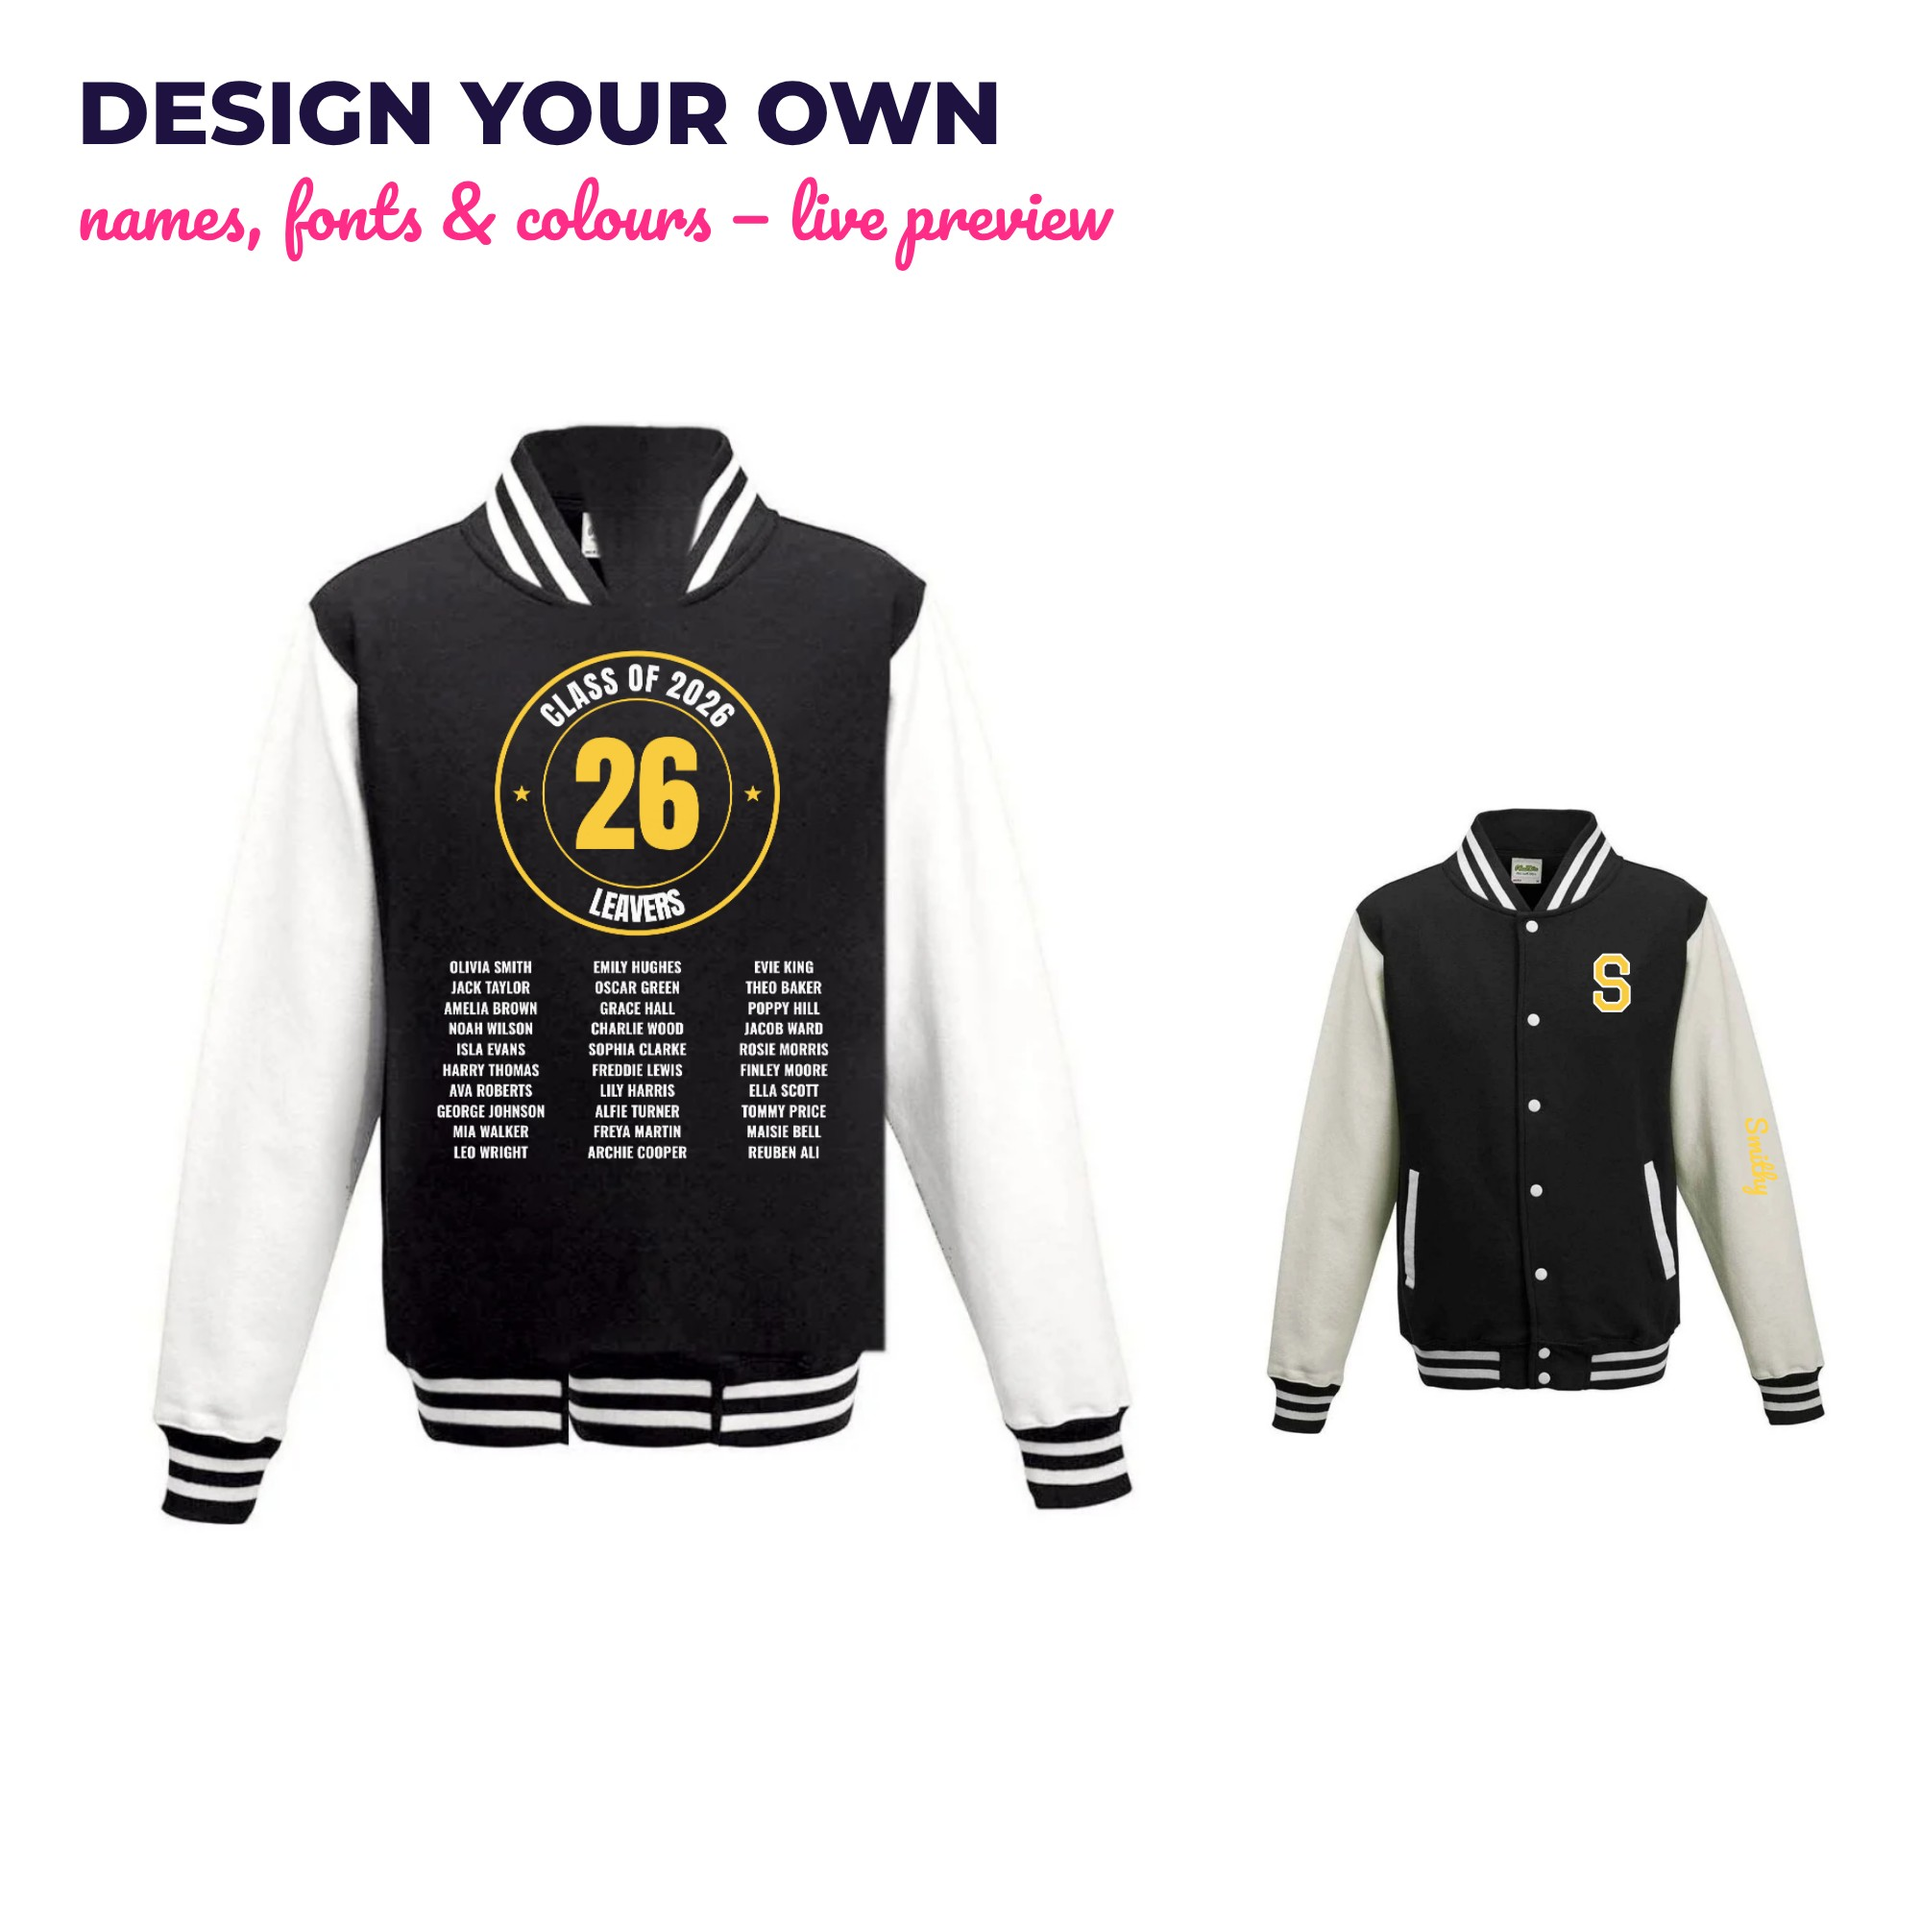
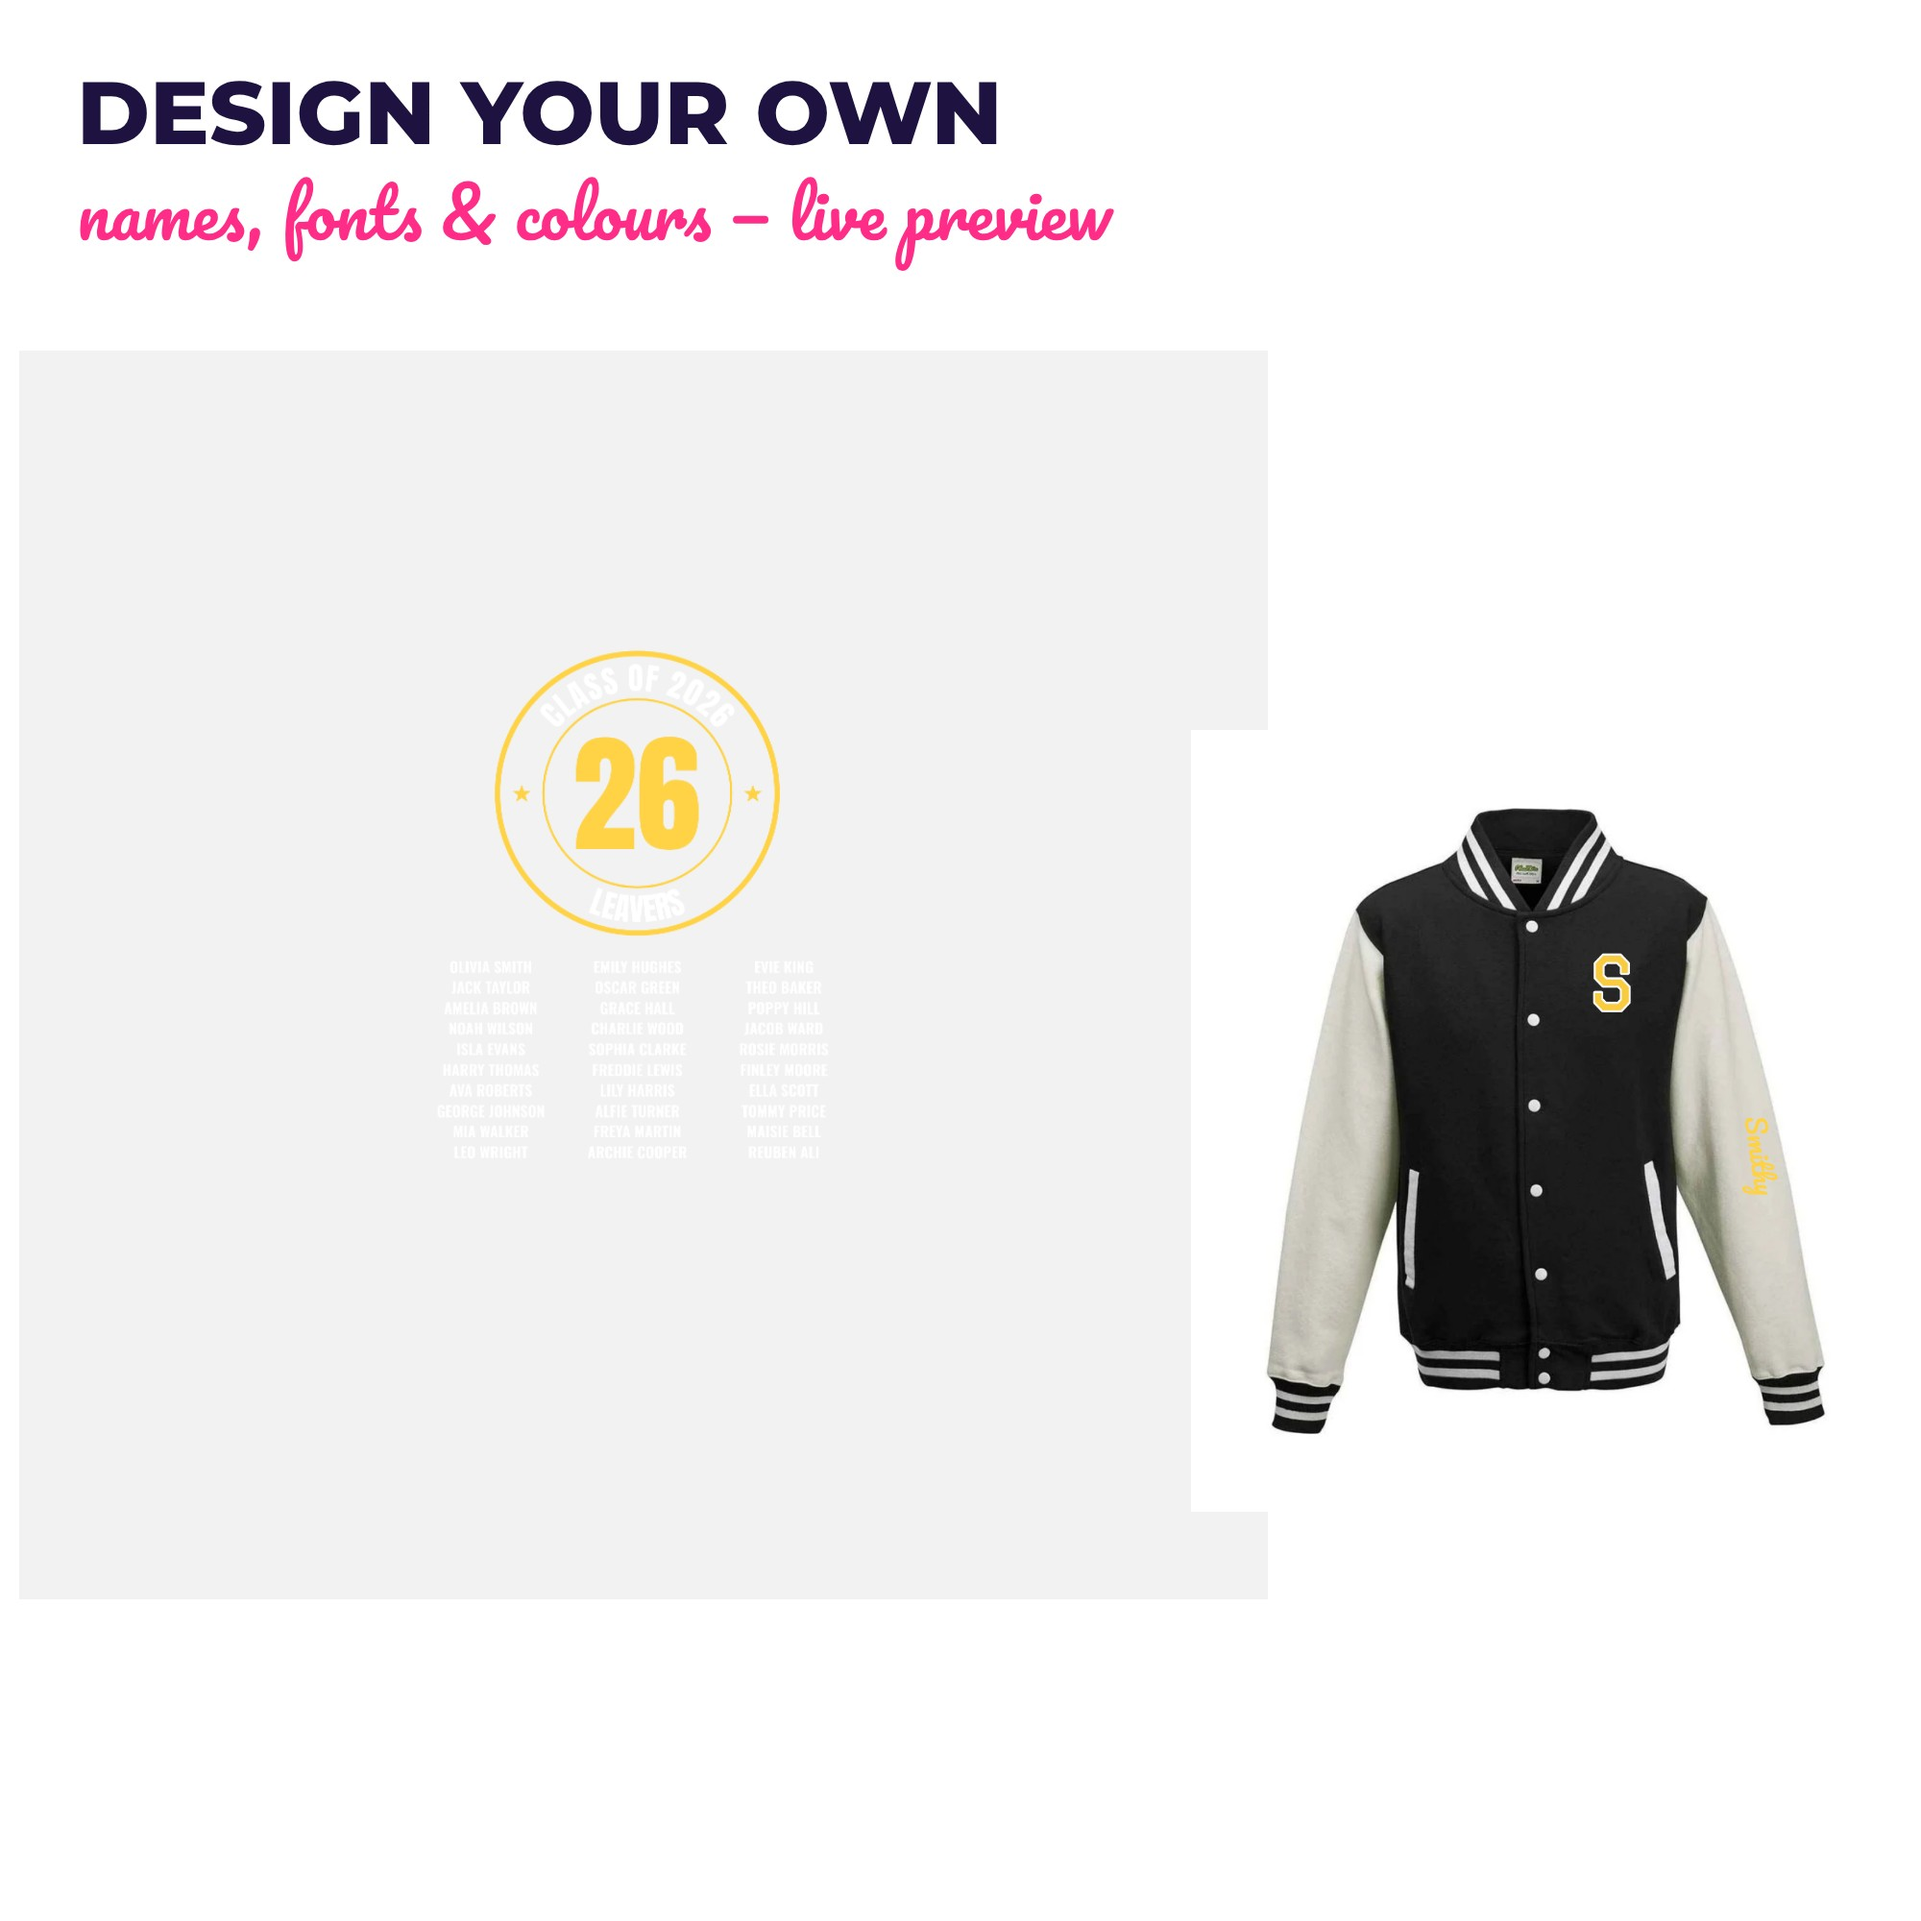
Varsity jacket: proper back view (straight striped collar band, no front V-neck)
Claude-Session: https://claude.ai/code/session_01MSgM9i85HvwumTiwg3Y5AK

Changed region(s): [[0.155, 0.217, 0.589, 0.806], [0.062, 0.713, 0.155, 0.806]]

diff --git a/leavers-designer/theme/assets/leavers-photos.js b/leavers-designer/theme/assets/leavers-photos.js
@@ -425,7 +425,7 @@ window.LEAVERS_PHOTOS = {
     "hex": "#1C1C1F",
     "trim": "#F4F4F2",
     "front": "ld-varsity-jacket-jet-black--white-front.jpg",
-    "back": "ld-varsity-jacket-jet-black--white-back.jpg",
+    "back": "ld-varsity-jacket-jet-black--white-back-v2.jpg",
     "real": true
    },
    {
@@ -434,7 +434,7 @@ window.LEAVERS_PHOTOS = {
     "hex": "#1C1C1F",
     "trim": "#C3132C",
     "front": "ld-varsity-jacket-jet-black--fire-red-front.jpg",
-    "back": "ld-varsity-jacket-jet-black--fire-red-back.jpg",
+    "back": "ld-varsity-jacket-jet-black--fire-red-back-v2.jpg",
     "real": true
    },
    {
@@ -443,7 +443,7 @@ window.LEAVERS_PHOTOS = {
     "hex": "#1C1C1F",
     "trim": "#F4C20D",
     "front": "ld-varsity-jacket-jet-black--sun-yellow-front.jpg",
-    "back": "ld-varsity-jacket-jet-black--sun-yellow-back.jpg",
+    "back": "ld-varsity-jacket-jet-black--sun-yellow-back-v2.jpg",
     "real": true
    },
    {
@@ -452,7 +452,7 @@ window.LEAVERS_PHOTOS = {
     "hex": "#1C1C1F",
     "trim": "#E2317D",
     "front": "ld-varsity-jacket-jet-black--hot-pink-front.jpg",
-    "back": "ld-varsity-jacket-jet-black--hot-pink-back.jpg",
+    "back": "ld-varsity-jacket-jet-black--hot-pink-back-v2.jpg",
     "real": false
    },
    {
@@ -461,7 +461,7 @@ window.LEAVERS_PHOTOS = {
     "hex": "#1C1C1F",
     "trim": "#A8AAAF",
     "front": "ld-varsity-jacket-jet-black--heather-grey-front.jpg",
-    "back": "ld-varsity-jacket-jet-black--heather-grey-back.jpg",
+    "back": "ld-varsity-jacket-jet-black--heather-grey-back-v2.jpg",
     "real": true
    },
    {
@@ -470,7 +470,7 @@ window.LEAVERS_PHOTOS = {
     "hex": "#1C1C1F",
     "trim": "#3E4045",
     "front": "ld-varsity-jacket-jet-black--charcoal-front.jpg",
-    "back": "ld-varsity-jacket-jet-black--charcoal-back.jpg",
+    "back": "ld-varsity-jacket-jet-black--charcoal-back-v2.jpg",
     "real": false
    },
    {
@@ -479,7 +479,7 @@ window.LEAVERS_PHOTOS = {
     "hex": "#1F2A44",
     "trim": "#F4F4F2",
     "front": "ld-varsity-jacket-oxford-navy--white-front.jpg",
-    "back": "ld-varsity-jacket-oxford-navy--white-back.jpg",
+    "back": "ld-varsity-jacket-oxford-navy--white-back-v2.jpg",
     "real": false
    },
    {
@@ -488,7 +488,7 @@ window.LEAVERS_PHOTOS = {
     "hex": "#1F2A44",
     "trim": "#A8AAAF",
     "front": "ld-varsity-jacket-oxford-navy--heather-grey-front.jpg",
-    "back": "ld-varsity-jacket-oxford-navy--heather-grey-back.jpg",
+    "back": "ld-varsity-jacket-oxford-navy--heather-grey-back-v2.jpg",
     "real": false
    },
    {
@@ -497,7 +497,7 @@ window.LEAVERS_PHOTOS = {
     "hex": "#1F2A44",
     "trim": "#6B1A2C",
     "front": "ld-varsity-jacket-oxford-navy--burgundy-front.jpg",
-    "back": "ld-varsity-jacket-oxford-navy--burgundy-back.jpg",
+    "back": "ld-varsity-jacket-oxford-navy--burgundy-back-v2.jpg",
     "real": false
    },
    {
@@ -506,7 +506,7 @@ window.LEAVERS_PHOTOS = {
     "hex": "#6B1A2C",
     "trim": "#A8AAAF",
     "front": "ld-varsity-jacket-burgundy--heather-grey-front.jpg",
-    "back": "ld-varsity-jacket-burgundy--heather-grey-back.jpg",
+    "back": "ld-varsity-jacket-burgundy--heather-grey-back-v2.jpg",
     "real": false
    },
    {
@@ -515,7 +515,7 @@ window.LEAVERS_PHOTOS = {
     "hex": "#C3132C",
     "trim": "#F4F4F2",
     "front": "ld-varsity-jacket-fire-red--white-front.jpg",
-    "back": "ld-varsity-jacket-fire-red--white-back.jpg",
+    "back": "ld-varsity-jacket-fire-red--white-back-v2.jpg",
     "real": false
    },
    {
@@ -524,7 +524,7 @@ window.LEAVERS_PHOTOS = {
     "hex": "#2149A6",
     "trim": "#F4F4F2",
     "front": "ld-varsity-jacket-royal-blue--white-front.jpg",
-    "back": "ld-varsity-jacket-royal-blue--white-back.jpg",
+    "back": "ld-varsity-jacket-royal-blue--white-back-v2.jpg",
     "real": false
    },
    {
@@ -533,7 +533,7 @@ window.LEAVERS_PHOTOS = {
     "hex": "#1677C6",
     "trim": "#A8AAAF",
     "front": "ld-varsity-jacket-sapphire--heather-grey-front.jpg",
-    "back": "ld-varsity-jacket-sapphire--heather-grey-back.jpg",
+    "back": "ld-varsity-jacket-sapphire--heather-grey-back-v2.jpg",
     "real": false
    },
    {
@@ -542,7 +542,7 @@ window.LEAVERS_PHOTOS = {
     "hex": "#1F8A3D",
     "trim": "#F4F4F2",
     "front": "ld-varsity-jacket-kelly-green--white-front.jpg",
-    "back": "ld-varsity-jacket-kelly-green--white-back.jpg",
+    "back": "ld-varsity-jacket-kelly-green--white-back-v2.jpg",
     "real": false
    },
    {
@@ -551,7 +551,7 @@ window.LEAVERS_PHOTOS = {
     "hex": "#4B2A82",
     "trim": "#F4F4F2",
     "front": "ld-varsity-jacket-purple--white-front.jpg",
-    "back": "ld-varsity-jacket-purple--white-back.jpg",
+    "back": "ld-varsity-jacket-purple--white-back-v2.jpg",
     "real": false
    },
    {
@@ -560,7 +560,7 @@ window.LEAVERS_PHOTOS = {
     "hex": "#A8AAAF",
     "trim": "#F4F4F2",
     "front": "ld-varsity-jacket-heather-grey--white-front.jpg",
-    "back": "ld-varsity-jacket-heather-grey--white-back.jpg",
+    "back": "ld-varsity-jacket-heather-grey--white-back-v2.jpg",
     "real": false
    }
   ],

diff --git a/leavers-designer/tools/process-photos.py b/leavers-designer/tools/process-photos.py
@@ -186,11 +186,46 @@ def varsity_back(img):
     valid = fabric.copy()
     valid[:, 450:550] = False  # ignore the placket seam
     out = resurface(out, region, (320, 250, 420, 450), valid)
-    neck = np.zeros_like(region)
-    cv2.fillPoly(neck, [np.array([[438, 60], [562, 60], [526, 204], [474, 204]])], 1)
-    neck &= g
-    out = resurface(out, neck, (320, 250, 420, 450), valid, sigma=30)
-    return out
+    return back_collar(out, valid)
+
+
+def back_collar(img, valid):
+    """Replace the front V-neck with the back of a varsity collar: a straight ribbed band with two stripes."""
+    out = img.copy()
+    body_px = img[300:450, 330:420].reshape(-1, 3)
+    body_col = np.median(body_px, axis=0)
+    # 1. clear the old collar and V opening to background, then rebuild the upper back panel
+    old = np.zeros(img.shape[:2], np.uint8)
+    cv2.fillPoly(old, [np.array([[352, 40], [648, 40], [664, 150], [336, 150]])], 1)
+    out[old > 0] = 255
+    panel = np.zeros_like(old)
+    cv2.fillPoly(panel, [np.array([[318, 172], [356, 150], [644, 150], [682, 172], [690, 230], [310, 230]])], 1)
+    out[(panel > 0) & (out.mean(axis=2) > 200)] = body_col
+    below = valid.copy()
+    below[:235] = False
+    out = resurface(out, panel, (320, 250, 420, 450), below, sigma=30)
+    # 2. the collar band, standing up across the back of the neck
+    band = np.zeros_like(old)
+    top = [(x, 104 + int(4 * ((x - 500) / 125) ** 2)) for x in range(378, 623, 5)]
+    bot = [(x, 158 + int(5 * (1 - ((x - 500) / 142) ** 2))) for x in range(642, 357, -5)]
+    cv2.fillPoly(band, [np.array(top + bot)], 1)
+    yy, xx = np.mgrid[0:img.shape[0], 0:img.shape[1]]
+    rib = body_col[None, None, :] + 6 * np.sin(xx * 2 * np.pi / 7)[..., None] - 0.15 * (yy - 125)[..., None]
+    out = np.where(band[..., None] > 0, np.clip(rib, 0, 255), out).astype(np.uint8)
+    # contrast stripes near the top edge, following the curve
+    stripe = (238, 238, 238)
+    for off in (10, 25):
+        pts = np.array([(x, y + off) for x, y in top], np.int32)
+        cv2.polylines(out, [pts], False, stripe, 8, cv2.LINE_AA)
+    out[(band == 0) & (old > 0) & (panel == 0)] = 255
+    out[band == 0] = np.where((old[band == 0] > 0)[:, None], out[band == 0], out[band == 0])
+    # keep the stripes inside the band, then a seam line where the collar meets the body
+    outside = (old > 0) & (band == 0) & (panel == 0)
+    out[outside] = 255
+    edge = cv2.morphologyEx(band, cv2.MORPH_GRADIENT, np.ones((3, 3), np.uint8))
+    out[edge > 0] = (out[edge > 0] * 0.55).astype(np.uint8)
+    return cv2.GaussianBlur(out, (3, 3), 0) * (cv2.dilate(edge, np.ones((5, 5), np.uint8))[..., None] > 0) + \
+        out * (cv2.dilate(edge, np.ones((5, 5), np.uint8))[..., None] == 0)
 
 
 VARSITY_REAL = {
